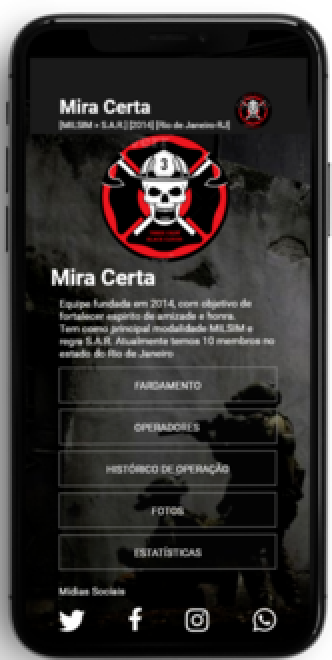
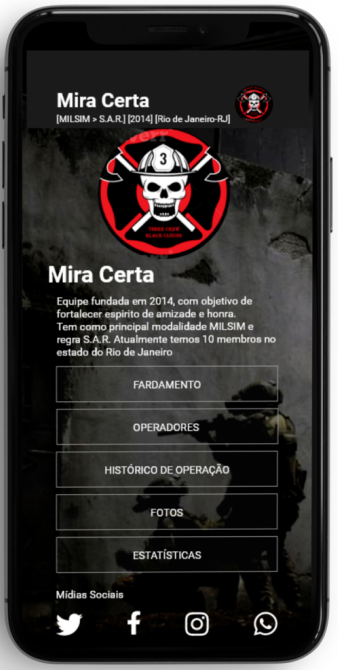
fix: mockup image quality

diff --git a/src/Components/Atribuicoes/index.jsx b/src/Components/Atribuicoes/index.jsx
@@ -28,7 +28,7 @@ const Atribuicoes = () => {
           <ul>
             <li>Reúna seus amigos, crie sua equipe</li>
             <li>
-              Aceite, recuese, promova e rebaixe seus subordinados, gerencie de
+              Aceite,recuse, promova e rebaixe seus subordinados, gerencie de
               uma forma mais simples
             </li>
             <li>Visualize de forma inteligente o efetivo de sua equipe</li>
@@ -42,7 +42,7 @@ const Atribuicoes = () => {
           <ul>
             <li>Crie seus eventos pela plataforma</li>
             <li>
-              Divulgue suas opreações através das principais mídias digitais
+              Divulgue suas operações através das principais mídias digitais
             </li>
             <li>Receba o FeedBack dos operadores ao final de cada evento</li>
             <li>

diff --git a/src/Components/Gallery/styles.jsx b/src/Components/Gallery/styles.jsx
@@ -34,6 +34,7 @@ export const Item = styled.div`
   padding: 16px 32px;
   color: #0fa;
   border-radius: 16px;
+  font-size: 24px;
   &:hover {
     background-color: #000;
   }
